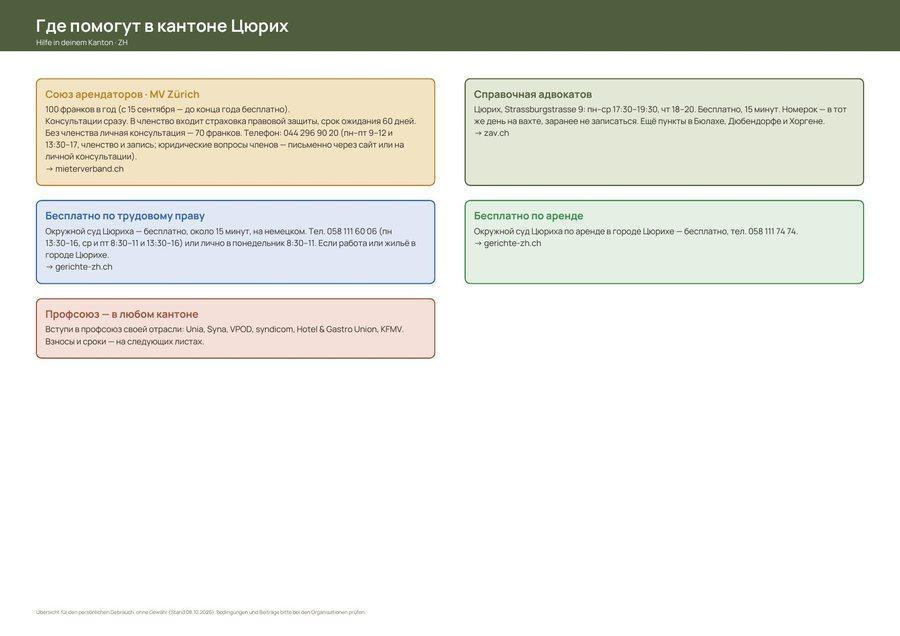
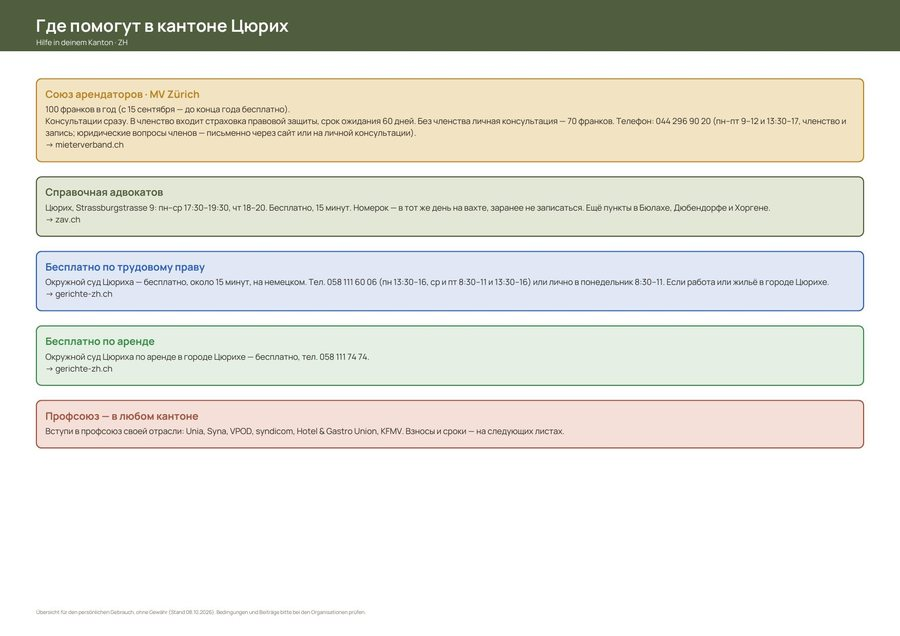
Копия: «Где помогут» и «Кто поможет» — по одному блоку в строке; в PDF «Куда обратиться» лист кантона и «Что это за организации» в одну колонку

diff --git a/instrumenty/kuda-obratitsya/index.html b/instrumenty/kuda-obratitsya/index.html
@@ -207,9 +207,9 @@ function p0(d){
   const T = [['mv', 'Союз арендаторов', c.mustard], ['adv', 'Справочная адвокатов', c.sage], ['arb', 'Бесплатно по трудовому праву', c.blue], ['miet', 'Бесплатно по аренде', c.green], ['x', 'Ещё', c.brown]];
   const items = T.filter(t => D0[t[0]]).map(t => { const v = D0[t[0]]; return t[0] === 'mv' ? [t[2], t[1] + ' · ' + v[0], [v[1] + '.', v[2], '→ ' + host(v[3])]] : [t[2], t[1], [v[0], '→ ' + host(v[1])]]; });
   items.push([c.red, 'Профсоюз — в любом кантоне', ['Вступи в профсоюз своей отрасли: Unia, Syna, VPOD, syndicom, Hotel & Gastro Union, KFMV' + (k === 'TI' ? ', OCST' : k === 'GE' ? ', SIT' : '') + '. Взносы и сроки — на следующих листах.']]);
-  const X = 12, cw = (273 - 10) / 2, o = {bs: 7.8, ts: 9.6}; let y = 26;
-  for (let i = 0; i < items.length; i += 2) {
-    const row = items.slice(i, i + 2), h = Math.max(...row.map(r => P.card(0, 0, cw, r[0], r[1], '', r[2], Object.assign({dry: true}, o))));
+  const X = 12, cw = 273, o = {bs: 7.8, ts: 9.6}; let y = 26;
+  for (let i = 0; i < items.length; i += 1) {
+    const row = items.slice(i, i + 1), h = Math.max(...row.map(r => P.card(0, 0, cw, r[0], r[1], '', r[2], Object.assign({dry: true}, o))));
     if (y + h > P.h - 14) break;
     row.forEach((r, j) => P.card(X + j * (cw + 10), y, cw, r[0], r[1], '', r[2], Object.assign({minH: h}, o)));
     y += h + 5;
@@ -241,15 +241,15 @@ function p1(d){
 }
 /* Что это за организации — пояснение для тех, кто здесь впервые */
 function p2(d){
-  const C = SH.pal(d.bw), c = C.c, out = []; let P, y, col = 0; const X = 12, cw = (273 - 8) / 2, FS = 7.2, LH = 3.2;
+  const C = SH.pal(d.bw), c = C.c, out = []; let P, y, col = 0; const X = 12, cw = 273, FS = 7.8, LH = 3.5;
   const np = () => { P = SH.page(297, 210, C); out.push(P); P.header('Что это за организации' + (out.length > 1 ? ' (продолжение)' : ''), L(d, 't2'), ''); y = 27; col = 0; };
   np(); const ys = [27, 27];
   Object.keys(PM.info).filter(a => d.areas.includes(a)).forEach(a => {
     const [h, ps] = PM.info[a], cc = c[COL[a] || 'sage'];
     const lines = []; ps.forEach((p, i) => { SH.wrap(p, false, FS, cw - 6).forEach(l => lines.push(l)); if (i < ps.length - 1) lines.push(''); });
     const hh = 9 + lines.length * LH + 3;
-    let k = ys[0] <= ys[1] ? 0 : 1; if (ys[k] + hh > 198) { k = 1 - k; if (ys[k] + hh > 198) { np(); ys[0] = ys[1] = 27; k = 0; } }
-    const x = X + k * (cw + 8), yy = ys[k];
+    const k = 0; if (ys[0] + hh > 198) { np(); ys[0] = 27; }
+    const x = X, yy = ys[0];
     P.rect(x, yy, cw, hh, cc[0], cc[1], 1.6); P.text(h, x + 3, yy + 5.6, 8.6, true, cc[1]);
     lines.forEach((l, i) => { if (l) P.text(l, x + 3, yy + 10.4 + i * LH, FS, false, C.ink); });
     ys[k] += hh + 4;

diff --git a/assets/temy.css b/assets/temy.css
@@ -184,14 +184,14 @@ nav.toc{display:block!important}
 /* «Кто поможет» и организации (08.10.2026) */
 .pm{background:var(--paper);border:1.5px solid var(--line);border-radius:20px;padding:18px;margin:28px 0}
 .pm h2{margin-top:0}
-.pm-g{display:grid;grid-template-columns:repeat(auto-fill,minmax(230px,1fr));gap:8px;margin:12px 0}
+.pm-g{display:grid;grid-template-columns:1fr;gap:8px;margin:12px 0}
 .pm-c{display:flex;flex-direction:column;gap:3px;text-decoration:none;color:inherit;background:var(--bg);border:1.5px solid var(--line);border-radius:14px;padding:10px 12px}
 .pm-c:hover{border-color:var(--sage)}
 .pm-c b{font-size:.96rem}.pm-c span{font-size:.86rem}.pm-c em{font-style:normal;font-size:.8rem;color:var(--muted)}
 .pm-more{font-size:.9rem;margin:10px 0 0}
 .pmk{background:var(--paper);border:1.5px solid var(--sage);border-radius:20px;padding:16px 18px;margin:16px 0 22px;display:flex;flex-direction:column;gap:10px}
 .pm .pmk{background:var(--bg)}
-.pmk-out{display:grid;grid-template-columns:repeat(auto-fill,minmax(250px,1fr));gap:8px}
+.pmk-out{display:grid;grid-template-columns:1fr;gap:8px}
 .pmk-r{background:var(--sage-soft);border-radius:12px;padding:10px 12px;font-size:.88rem}
 .pmk-r b{display:block;font-size:.93rem;margin-bottom:3px}.pmk-r p{margin:0 0 5px}.pmk-r a{font-size:.82rem}
 .pmk-fee{font-weight:700}
